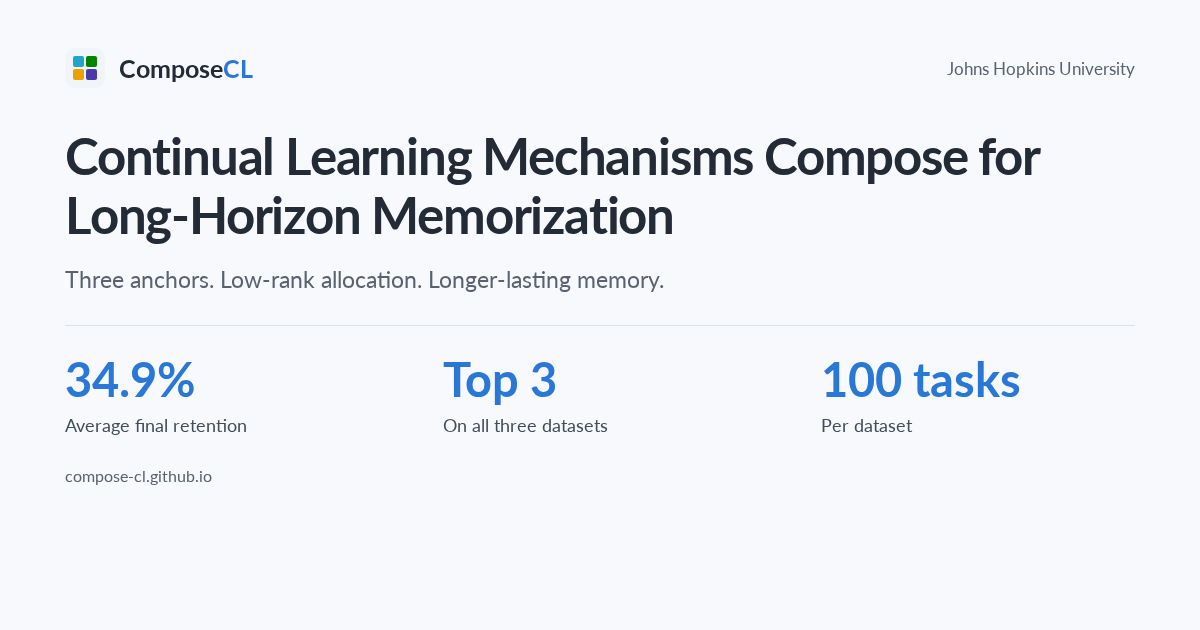
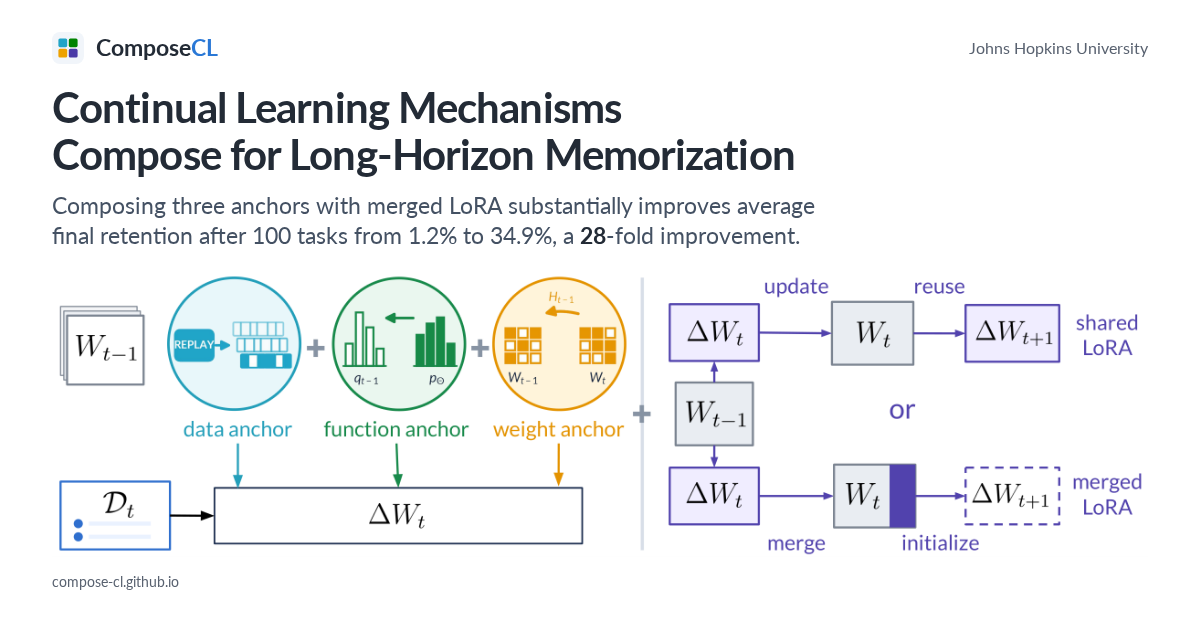
Revise social preview with 100-task retention and mechanism diagram

diff --git a/scripts/social-preview.html b/scripts/social-preview.html
@@ -8,17 +8,18 @@
   <style>
     @font-face{font-family:Lato;src:url('../static/fonts/Lato-Regular.ttf')}
     @font-face{font-family:Lato;src:url('../static/fonts/Lato-Bold.ttf');font-weight:700}
-    *{box-sizing:border-box}body{margin:0;width:1200px;height:630px;background:#f7f9fc;font-family:Lato,Arial,sans-serif;color:#232b36;padding:48px 65px}
-    .brand{display:flex;align-items:center;gap:14px;font-size:25px;font-weight:700}.brand img{width:40px}.brand span{color:#2a78d6}.institution{margin-left:auto;font-size:17px;font-weight:400;color:#596270}
-    h1{font-size:51px;line-height:1.16;letter-spacing:-1.2px;margin:38px 0 21px;max-width:1060px}p{font-size:23px;color:#596270;margin:0}
-    .metrics{display:flex;gap:64px;border-top:1px solid #dce3ed;padding-top:28px;margin-top:32px}.metric{flex:1}.metric strong{display:block;font-size:47px;color:#2a78d6;line-height:1.1;margin-bottom:8px}.metric span{font-size:18px;color:#424d5b}.address{margin-top:30px;font-size:16px;color:#596270}
+    *{box-sizing:border-box}body{margin:0;width:1200px;height:630px;background:#fff;font-family:Lato,Arial,sans-serif;color:#232b36;padding:32px 52px}
+    .brand{display:flex;align-items:center;gap:12px;font-size:23px;line-height:1.2;font-weight:700}.brand img{width:32px;height:32px}.brand span{color:#2a78d6}.institution{margin-left:auto;font-size:16px;font-weight:400;color:#596270}
+    h1{font-size:42px;line-height:1.12;letter-spacing:-.9px;margin:20px 0 12px;text-wrap:balance}
+    .summary{font-size:23px;line-height:1.32;color:#445163;margin:0;text-wrap:balance}.summary strong{font-weight:700;color:#232b36}
+    .diagram{display:block;width:100%;height:auto;margin-top:20px}.address{margin-top:16px;font-size:14px;line-height:1.3;color:#596270}
   </style>
 </head>
 <body>
   <div class="brand"><img src="../static/images/favicon.svg" alt=""><div>Compose<span>CL</span></div><div class="institution">Johns Hopkins University</div></div>
   <h1>Continual Learning Mechanisms Compose for Long-Horizon Memorization</h1>
-  <p>Three anchors. Low-rank allocation. Longer-lasting memory.</p>
-  <div class="metrics"><div class="metric"><strong>34.9%</strong><span>Average final retention</span></div><div class="metric"><strong>Top 3</strong><span>On all three datasets</span></div><div class="metric"><strong>100 tasks</strong><span>Per dataset</span></div></div>
+  <p class="summary">Composing three anchors with merged LoRA substantially improves average final retention after 100 tasks from 1.2% to 34.9%, a <strong>28</strong>-fold improvement.</p>
+  <img class="diagram" src="../static/images/anchors-allocation.png" width="2400" height="626" alt="The two design dimensions: data, function, and weight anchors jointly constrain the update, while shared and merged LoRA determine how updates are retained.">
   <div class="address">compose-cl.github.io</div>
 </body>
 </html>

diff --git a/index.html b/index.html
@@ -11,16 +11,17 @@
   <meta property="og:type" content="website">
   <meta property="og:site_name" content="ComposeCL">
   <meta property="og:title" content="Continual Learning Mechanisms Compose for Long-Horizon Memorization">
-  <meta property="og:description" content="Three anchors. Low-rank allocation. Longer-lasting memory across 100 tasks.">
+  <meta property="og:description" content="Composing three anchors with merged LoRA substantially improves average final retention after 100 tasks from 1.2% to 34.9%, a 28-fold improvement.">
   <meta property="og:url" content="https://compose-cl.github.io/">
-  <meta property="og:image" content="https://compose-cl.github.io/static/images/social-preview.png">
+  <meta property="og:image" content="https://compose-cl.github.io/static/images/social-preview.png?v=2">
   <meta property="og:image:width" content="1200">
   <meta property="og:image:height" content="630">
-  <meta property="og:image:alt" content="ComposeCL: 34.9% average final retention, among the top 3 on all three 100-task datasets.">
+  <meta property="og:image:alt" content="Diagram of data, function, and weight anchors and shared versus merged LoRA allocation rules.">
   <meta name="twitter:card" content="summary_large_image">
   <meta name="twitter:title" content="Continual Learning Mechanisms Compose for Long-Horizon Memorization">
-  <meta name="twitter:description" content="Composing complementary mechanisms improves long-horizon memorization.">
-  <meta name="twitter:image" content="https://compose-cl.github.io/static/images/social-preview.png">
+  <meta name="twitter:description" content="Composing three anchors with merged LoRA substantially improves average final retention after 100 tasks from 1.2% to 34.9%, a 28-fold improvement.">
+  <meta name="twitter:image" content="https://compose-cl.github.io/static/images/social-preview.png?v=2">
+  <meta name="twitter:image:alt" content="Diagram of data, function, and weight anchors and shared versus merged LoRA allocation rules.">
   <link rel="icon" href="static/images/favicon.svg" type="image/svg+xml">
   <link rel="preload" href="static/fonts/Lato-Regular.ttf" as="font" type="font/ttf" crossorigin>
   <link rel="preload" href="static/fonts/Lato-Bold.ttf" as="font" type="font/ttf" crossorigin>

diff --git a/scripts/check_site.py b/scripts/check_site.py
@@ -131,6 +131,20 @@ def main():
             social.goto(f"{url}/scripts/social-preview.html", wait_until="networkidle")
             social.evaluate("document.fonts.ready")
             assert social.evaluate("document.documentElement.scrollHeight <= 630")
+            assert social.evaluate("document.documentElement.scrollWidth <= 1200")
+            assert social.locator(".metrics, .metric").count() == 0
+            assert social.locator(".summary strong").inner_text() == "28"
+            assert social.locator(".summary strong").evaluate("e => getComputedStyle(e).fontWeight") == "700"
+            assert social.locator(".diagram").evaluate("e => e.complete && e.naturalWidth === 2400")
+            assert social.locator(".diagram").get_attribute("src") == "../static/images/anchors-allocation.png"
+            summary = social.locator(".summary").inner_text()
+            assert "after 100 tasks from 1.2% to 34.9%, a 28-fold improvement" in summary
+            assert page.locator('meta[property="og:description"]').get_attribute("content") == summary
+            assert page.locator('meta[name="twitter:description"]').get_attribute("content") == summary
+            diagram_box = social.locator(".diagram").bounding_box()
+            summary_box = social.locator(".summary").bounding_box()
+            assert diagram_box["y"] >= summary_box["y"] + summary_box["height"]
+            assert diagram_box["y"] + diagram_box["height"] <= 598
             social.screenshot(path=str(root / "static" / "images" / "social-preview.png"))
         browser.close()
 

diff --git a/README.md b/README.md
@@ -23,7 +23,7 @@ Open <http://localhost:8000>. JavaScript enhances the page with a 16-combination
 - `static/images/`: web-rendered figures, favicon, and social preview.
 - `scripts/render_figures.py`: reproducible PNG export from an external directory of manuscript figures. Requires PyMuPDF. Run `python3 scripts/render_figures.py --source-dir /path/to/manuscript/figures`. Source PDFs stay outside this repository and are never copied into it.
 - `scripts/check_site.py`: Playwright browser checks for all 16 combinations, keyboard controls, citation copying, local links, and five viewport widths. Pass `--render-social` to regenerate the social preview too.
-- `scripts/social-preview.html`: source layout for the 1200 × 630 social preview, rendered with a browser screenshot.
+- `scripts/social-preview.html`: source layout for the 1200 × 630 social preview, with the retention improvement above the two-design-dimensions diagram. Rendered with a browser screenshot. The versioned image URLs in the sharing metadata should be updated when the card changes.
 
 Paper and code are **not released yet**. Their buttons are intentionally disabled and labeled “Coming soon.” Upon release, replace each disabled button with an anchor to the actual public URL, remove the coming-soon label, and update the project citation if needed. Do not link a private development repository or an unverified manuscript PDF.
 
